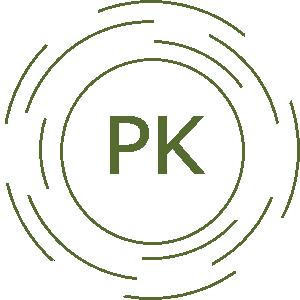
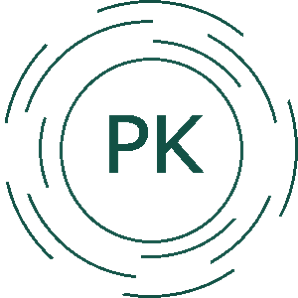
Minor changes to Home and Projects, About page re-color

diff --git a/src/css/About.scss b/src/css/About.scss
@@ -10,7 +10,7 @@
     * Original from  Toptal Subtle Patterns
     * at https://www.toptal.com/designers/subtlepatterns/light-honeycomb/
     * by Federica Pelzel*/
-    background-image: url("../assets/honey_green.png");
+    background-image: url("../assets/honey_msu.png");
     display: none;
     background-color: $aboutBackgroundLeft;
 }
@@ -40,7 +40,7 @@
     * Original from  Toptal Subtle Patterns
     * at https://www.toptal.com/designers/subtlepatterns/light-honeycomb/
     * by Federica Pelzel*/
-    background-image: url("../assets/honey_green.png");
+    background-image: url("../assets/honey_msu.png");
     @include aboutComponents(20%, 100%, left, $aboutBackgroundLeft);
 }
 
@@ -49,7 +49,7 @@
     * Original from  Toptal Subtle Patterns
     * at https://www.toptal.com/designers/subtlepatterns/light-honeycomb/
     * by Federica Pelzel*/
-    background-image: url("../assets/honey_grey.png");
+    background-image: url("../assets/honey_fa.png");
     @include aboutComponents(80%, 100%, right, $aboutBackgroundRight);
     color: $colorWhite;
 }
@@ -77,7 +77,7 @@
 }
 
 #hobbies .chip {
-    background-color: $aboutBackgroundRight;
+    background-color: $colorBlack;
     color: $colorWhite;
 }
 

diff --git a/src/About.js b/src/About.js
@@ -28,19 +28,22 @@ class About extends Component {
                             <p>Interests &amp; Hobbies: </p>
                             <Chip>Film</Chip>
                             <Chip>Basketball</Chip>
+                            {/*
                             <Chip>Traveling</Chip>
                             <Chip>Running</Chip>
-                            <Chip>Cooking</Chip>
+                            <Chip>Cooking</Chip>*/}
                         </div>
                     </div>
                 </div>
                 <div id="aboutRight">
                     <div id="aboutBody">
                         <div id="aboutBodyTop">
-                            <h2>Hi, I'm Pranay. A {this.props.occupation}.</h2>
+                            {/* <h2>Hi, I'm Pranay. A {this.props.occupation}.</h2> */ }
                         </div>
                         <div id="aboutBodyBot">
-                            <p></p>
+                            <p>
+
+                            </p>
                         </div>
                     </div>
                 </div>

diff --git a/src/Layout.js b/src/Layout.js
@@ -37,9 +37,11 @@ class Layout extends Component {
     componentDidMount() {
         var link = window.location.href;
         var custom = link.split("sp=");
-        //console.log(decodeURI(custom[1]));
+        console.log(decodeURI(custom[1]));
         if(custom.length === 2){
-            this.setState({custom: custom[1].replace('+', ' ')});
+            this.setState({custom: custom[1].replace('+', ' ')}, function(){
+                console.log(this.state.custom);
+            });
         }
 
         // document.getElementById('home').scrollIntoView({block: "end", inline: "nearest", behavior: "smooth"});
@@ -55,11 +57,10 @@ class Layout extends Component {
             section : ".scrollify",
             sectionName : "name",
         });
-
     }
 
     componentWillUnmount() {
-        $(window).unbind('beforeunload');
+        //$(window).unbind('beforeunload');
     }
 
     scrollSpy() {

diff --git a/src/css/Projects.scss b/src/css/Projects.scss
@@ -36,12 +36,19 @@
     margin: 0;
 }
 
-#projectsGithub, #projectsTopSlider h2  {
-    color:$projectYellow !important;
+#projectsGithub img {
+    @include setDim(30px, 30px);
+}
+#projectsGithub, #projectsTopSlider h2, .card-title   {
+    color: $projectYellow !important;
 }
 
-.card {
-    color: $projectRed !important;
+.card{
+    color: #FF663F !important;
+}
+
+.card .card-action a:not(.btn):not(.btn-large):not(.btn-large):not(.btn-floating){
+    color: #FF663F;
 }
 
 @keyframes moveRight {
@@ -59,7 +66,7 @@
      * Original from  Toptal Subtle Patterns
      * at https://www.toptal.com/designers/subtlepatterns/seigaiha/
      * by Olga Libby*/
-    background-image: url("../assets/seigaiha-strong-blue.png");
+    background-image: url("../assets/seigaiha-2d.png");
     height: 60vh;
     position: relative;
     /*animation: moveRight 10s linear infinite;*/

diff --git a/src/css/Home.scss b/src/css/Home.scss
@@ -4,11 +4,12 @@
     /* Spiration Dark from  Toptal Subtle Patterns
      * at https://www.toptal.com/designers/subtlepatterns/spiration-dark/
      * by Monika
-    background-image: url("../assets/spiration.png");
-    */
+
+    background-image: url("../assets/milkey-1920.jpg");
+    background-size: cover;*/
     @include setMain(transparent);
     background-color: black;
-    animation: moveDown 5s linear infinite;
+    //animation: moveDown 7s linear infinite;
 }
 
 @keyframes moveDown {

diff --git a/src/Projects.js b/src/Projects.js
@@ -5,7 +5,7 @@ import {Button, Card, CardTitle, Col} from 'react-materialize'
 import movieR from './assets/movieR.jpg';
 import movieP from './assets/movieP.jpg';
 import captcha from './assets/captcha.jpg';
-import githubIcon from './assets/github-icon.png';
+import githubIcon from './assets/github-icon2.png';
 import Slider from "react-slick";
 
 class Projects extends Component {

diff --git a/src/Nav.js b/src/Nav.js
@@ -11,9 +11,9 @@ import contact from './assets/pk_contact.png'
 
 const navColors  = {
     "home" : "#FFFFFF",
-    "about" : "#556B2F",
+    "about" : "#125245",
     "skills" : "#2DA1A1",
-    "projects" : "#008080",
+    "projects" : "#FFAB40",
     "contact" : "#000000"
 };
 

diff --git a/src/css/Shared.scss b/src/css/Shared.scss
@@ -1,5 +1,5 @@
-$aboutBackgroundLeft: #2F4F4F;
-$aboutBackgroundRight: #424242;
+$aboutBackgroundLeft: #125245;
+$aboutBackgroundRight: #FAFAFA;
 
 $colorWhite: white;
 $colorBlack: black;
